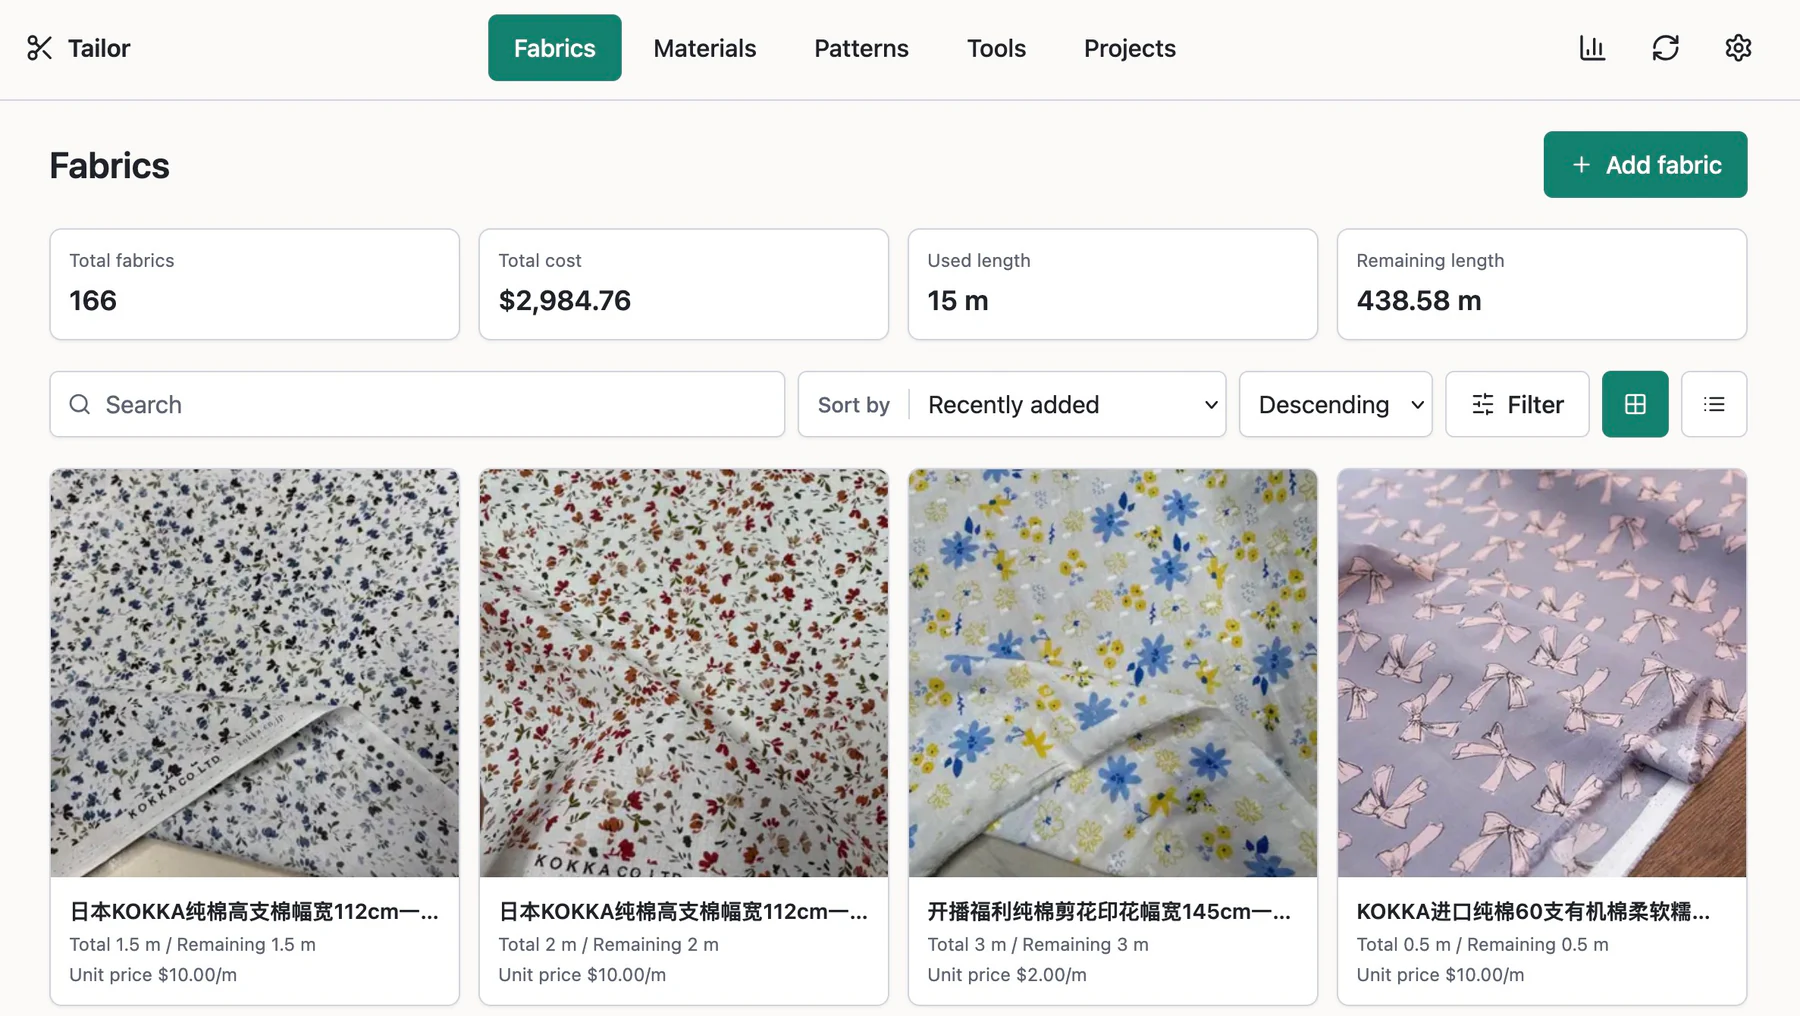
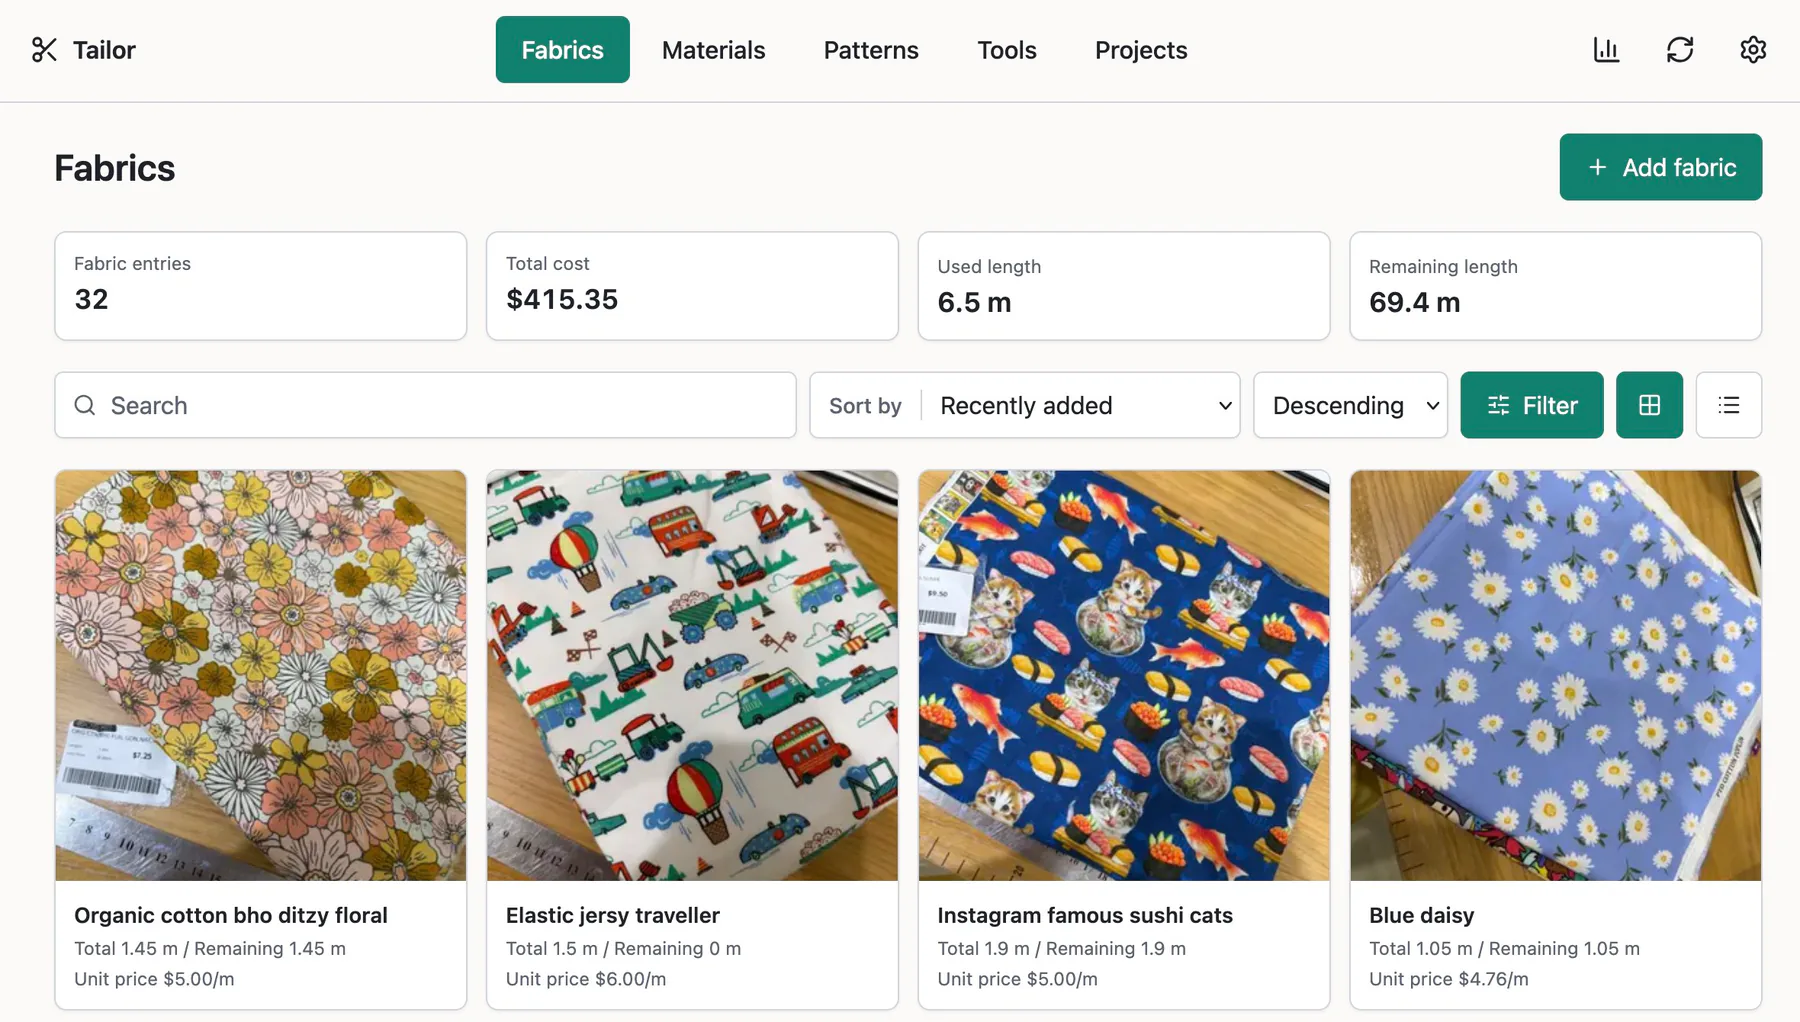
Refresh public screenshots and Actions runtimes
Replace outdated README screenshots with optimized current captures, document multi-user deployment options, and upgrade Docker actions to their Node 24 releases.

  Verified with typecheck, lint, 40 tests, YAML parsing, and image metadata inspection.

diff --git a/README.md b/README.md
@@ -16,7 +16,7 @@ through an ordinary desktop browser from the same deployment.
 
 ![Project inventory with cost and labour summaries](docs/screenshots/projects.webp)
 
-![Tailor inventory overview](docs/screenshots/overview.webp)
+![Pattern details with linked projects](docs/screenshots/patterns.webp)
 
 ## Internationalisation and units
 
@@ -41,6 +41,10 @@ for all inventory values; changing it does not convert stored amounts.
 
 Tailor runs as one Docker container with one persistent `/data` volume. It does
 not require an external database, object store, cache, or queue.
+
+Tailor does not currently provide a shared multi-user instance. To support
+multiple people, run a separate container and `/data` volume for each user, or
+wait for a future release with native multi-user support.
 
 The Compose configuration binds the application to `127.0.0.1:3000`. Keep that
 loopback binding and place an HTTPS reverse proxy such as Caddy, nginx, or
